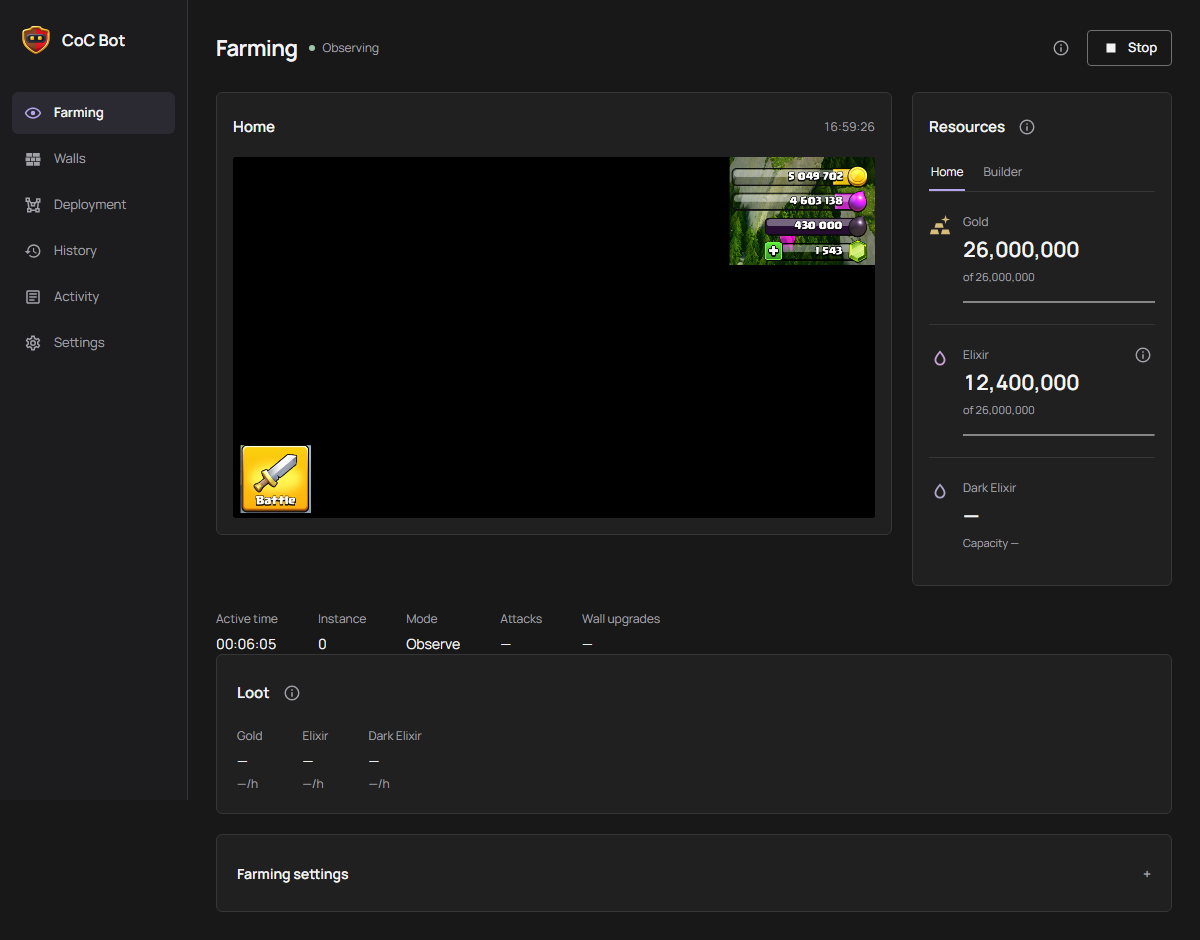
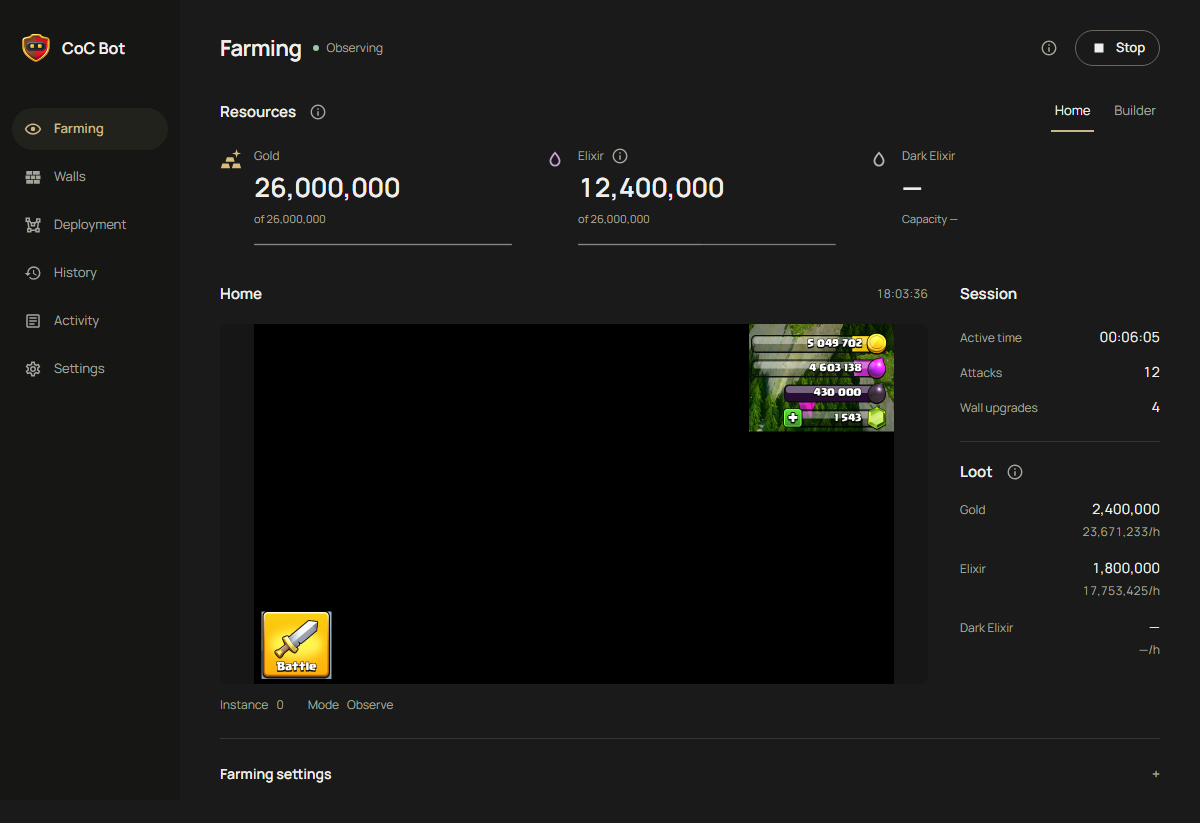
docs(ui): refresh the desktop screenshot and styling guidance

diff --git a/CONTRIBUTING.md b/CONTRIBUTING.md
@@ -121,8 +121,9 @@ the HUD balance whose leading digits the Python baseline drops. The Rust reader 
 that captured value without lowering confidence thresholds. Rust tests also verify fixture
 redaction, annotation geometry and unavailable values. Blacked-out stars are not zero stars.
 Capacity is displayed only when both the village and its calibrated storage tooltip are
-recognized; isolated tooltip fixtures cannot identify a village. The UI uses TDM's dark
-palette, spacing, Manrope and Material Design Icons, with explanations behind info buttons.
+recognized; isolated tooltip fixtures cannot identify a village. The UI follows TDM's
+spacing, Manrope and Material Design Icons with a neutral dark palette, muted gold accents,
+open sections and explanations behind round info buttons.
 
 From the repository root, after preparing the native dependencies:
 
